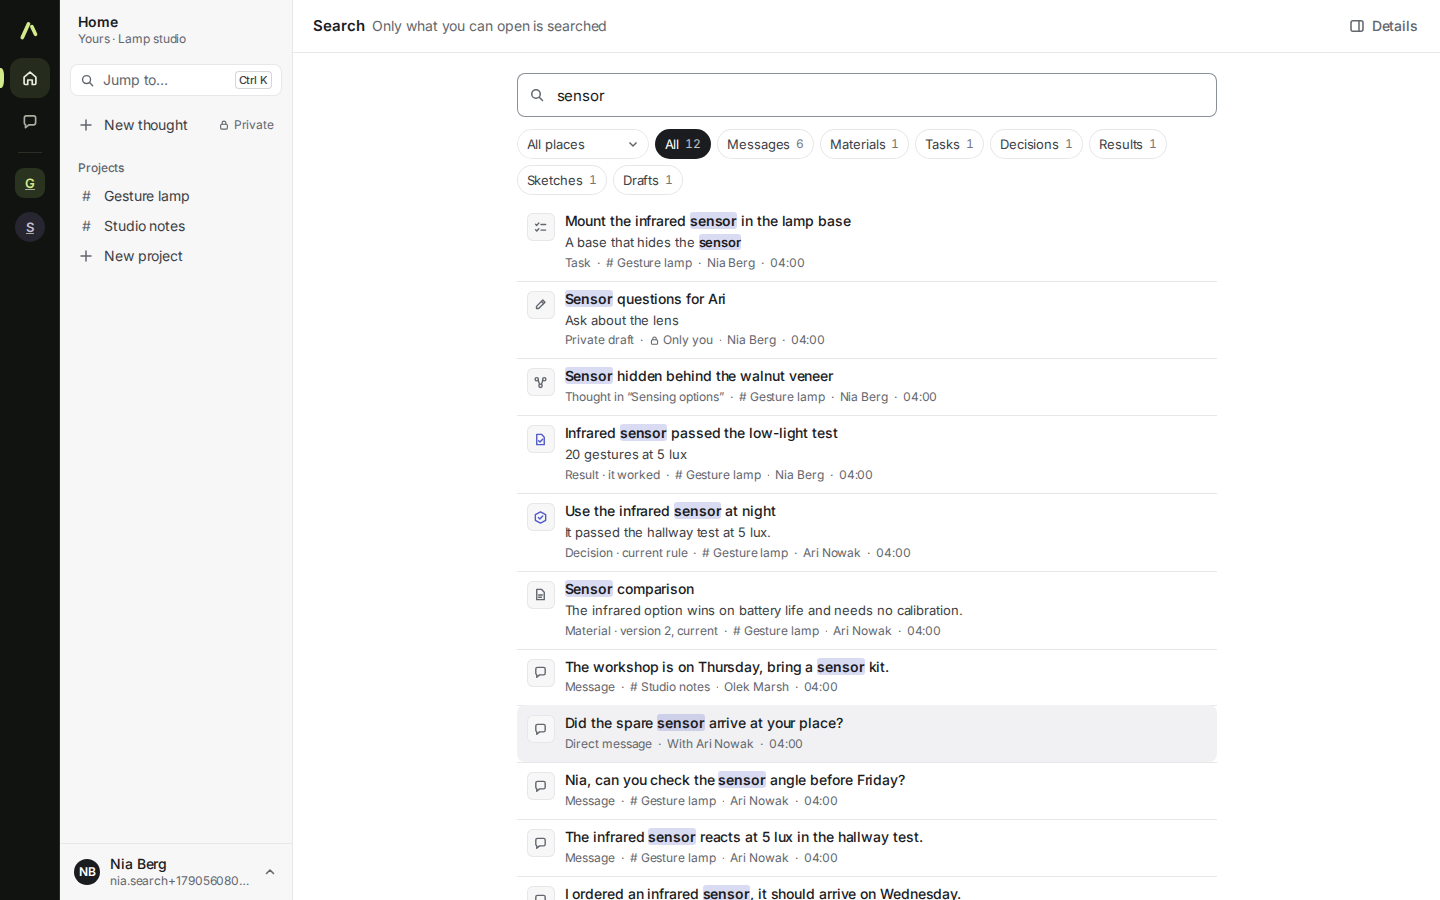
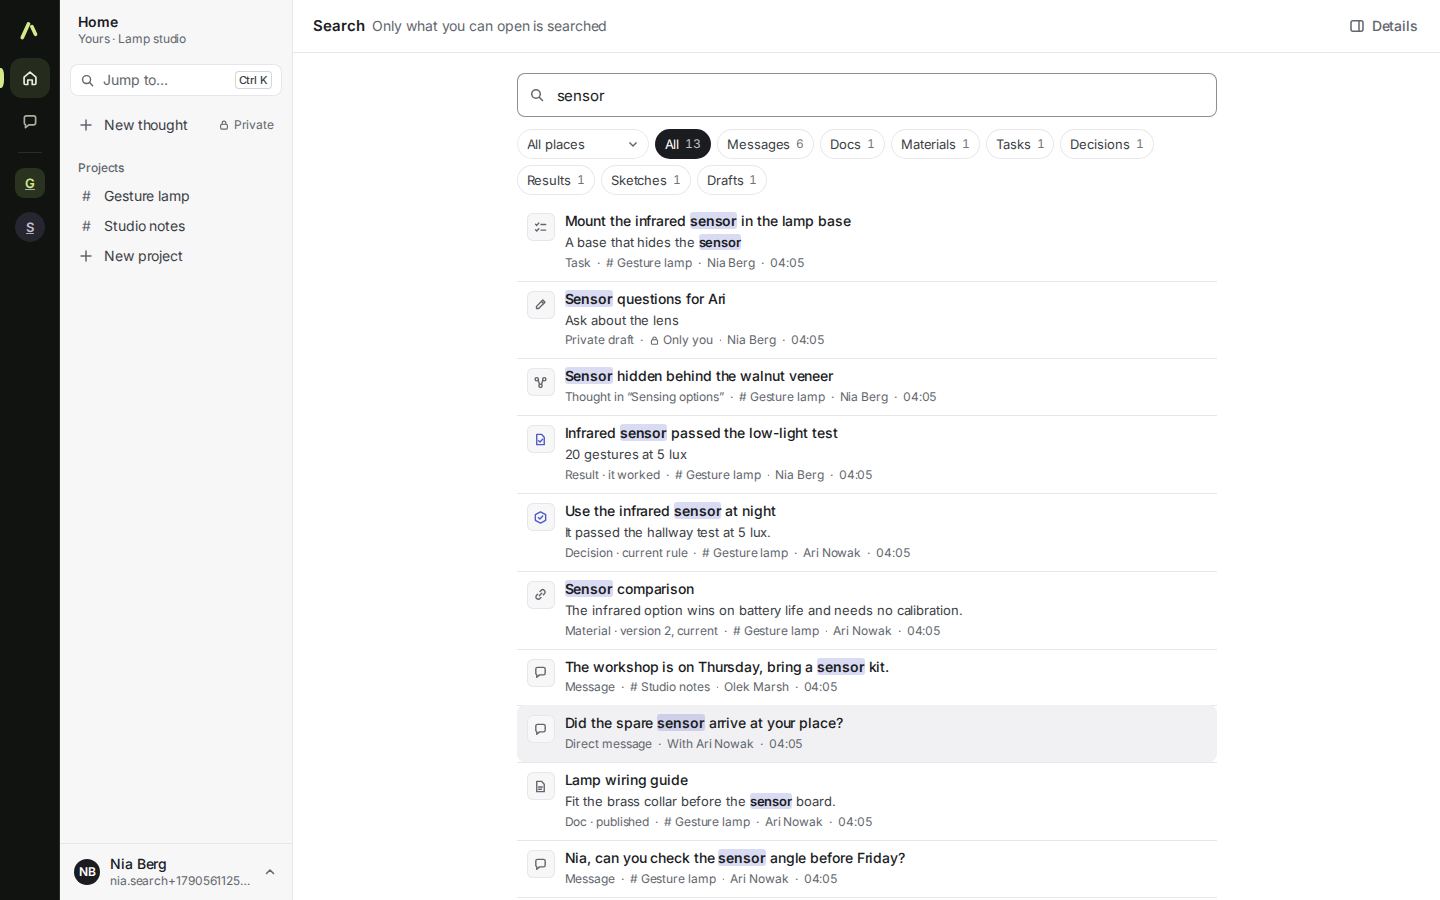
feat: docs as a search source (#114)

diff --git a/packages/contracts/src/search.ts b/packages/contracts/src/search.ts
@@ -1,7 +1,7 @@
 /**
  * Search across Flux (issue #114, foundation 8.12).
  *
- * One query over project and direct messages, materials and every version of them, work, decisions, results,
+ * One query over project and direct messages, docs and materials and every version of them, work, decisions, results,
  * sketches and their thoughts, drafts and people. Every result, snippet, count and the `next`
  * cursor come only from objects the caller may read at the moment of the request: the server
  * applies the access policy inside the SQL before ranking, limiting, counting and highlighting.
@@ -9,11 +9,11 @@
 export const SEARCH_PATH = '/api/v1/search';
 
 /** What a result is. `dm_message` results belong to the `message` filter and `thought` results to `sketch`. */
-export type SearchKind = 'message' | 'dm_message' | 'material' | 'work' | 'decision' | 'result' | 'sketch' | 'thought' | 'draft' | 'person';
+export type SearchKind = 'message' | 'dm_message' | 'material' | 'doc' | 'work' | 'decision' | 'result' | 'sketch' | 'thought' | 'draft' | 'person';
 
 /** Filter values of `type`: one kind, with project and direct messages together and sketches with their thoughts. */
-export type SearchFilterType = 'message' | 'material' | 'work' | 'decision' | 'result' | 'sketch' | 'draft' | 'person';
-export const SEARCH_FILTER_TYPES: readonly SearchFilterType[] = ['message', 'material', 'work', 'decision', 'result', 'sketch', 'draft', 'person'];
+export type SearchFilterType = 'message' | 'doc' | 'material' | 'work' | 'decision' | 'result' | 'sketch' | 'draft' | 'person';
+export const SEARCH_FILTER_TYPES: readonly SearchFilterType[] = ['message', 'doc', 'material', 'work', 'decision', 'result', 'sketch', 'draft', 'person'];
 
 export const SEARCH_LIMITS = { query: 200, pageDefault: 20, pageMax: 50, countCap: 500 } as const;
 
@@ -53,6 +53,8 @@ export type SearchTarget =
   | { type: 'message'; projectId: string; conversationId: string; messageId: string }
   | { type: 'dm_message'; dmId: string; messageId: string }
   | { type: 'material'; projectId: string; materialId: string; version: number }
+  /** A doc (#112) at the version that matched. */
+  | { type: 'doc'; projectId: string; docId: string; version: number }
   | { type: 'work' | 'decision' | 'result'; projectId: string; id: string }
   | { type: 'sketch'; sketchId: string }
   | { type: 'thought'; sketchId: string; thoughtId: string }

diff --git a/tests/app/search.test.ts b/tests/app/search.test.ts
@@ -208,6 +208,29 @@ describe('search: one query across Flux, only what you may read', () => {
     assert.ok(old.items[0]!.snippet?.some((part) => part.match && part.text.toLowerCase() === 'humidity'));
   });
 
+  test('docs are found at the version that matched, as drafts or published, only by project readers', async () => {
+    const created = json<{ id: string; version: number }>(await post(ari, `/api/v1/projects/${lamp.id}/docs`, {
+      title: 'Lamp wiring guide', body: 'Solder the dimmer before the brass fitting.', state: 'draft',
+    }), 201, 'doc');
+    const draftHit = await search(nia, 'dimmer');
+    assert.equal(draftHit.items.length, 1);
+    assert.equal(draftHit.items[0]!.kind, 'doc');
+    assert.equal(draftHit.items[0]!.label, 'Doc · draft');
+    assert.deepEqual(draftHit.items[0]!.target, { type: 'doc', projectId: lamp.id, docId: created.id, version: 1 });
+    json(await patch(ari, `/api/v1/docs/${created.id}`, { body: 'Fit the brass collar first, then the switch.', state: 'published' },
+      { 'if-match': `"${created.version}"` }), 200, 'publish doc');
+    const published = await search(nia, 'collar');
+    assert.equal(published.items[0]!.label, 'Doc · published');
+    assert.deepEqual(published.items[0]!.target, { type: 'doc', projectId: lamp.id, docId: created.id, version: 2 });
+    const old = await search(nia, 'dimmer');
+    assert.equal(old.items[0]!.label, 'Doc · version 1 of 2, draft', 'the old text is found at its own version');
+    const both = await search(nia, 'brass');
+    assert.equal(both.items.filter((item) => item.kind === 'doc').length, 1, 'one result per doc');
+    assert.equal(both.counts.doc, 1);
+    assert.deepEqual((await search(olek, 'brass')).items, [], 'not outside the project');
+    assert.deepEqual(kinds(await search(nia, { q: 'brass', type: 'doc' })), ['doc']);
+  });
+
   test('revoking access removes results on the very next search, and leaving a DM removes its messages', async () => {
     assert.ok((await search(nia, 'infrared')).items.length >= 4);
     await grant(ari, lamp.id, nia, 'denied');

diff --git a/packages/db/src/repositories/search.ts b/packages/db/src/repositories/search.ts
@@ -15,7 +15,7 @@ export type SearchExecutor = Pick<NodePgDatabase<typeof schema>, 'select' | 'exe
  */
 
 /** `search_documents.kind` (the contracts' `SearchKind`; this package does not depend on contracts). */
-export type SearchKindRow = 'message' | 'dm_message' | 'material' | 'work' | 'decision' | 'result' | 'sketch' | 'thought' | 'draft' | 'person';
+export type SearchKindRow = 'message' | 'dm_message' | 'material' | 'doc' | 'work' | 'decision' | 'result' | 'sketch' | 'thought' | 'draft' | 'person';
 type SearchKind = SearchKindRow;
 /** Highlighted text: plain and matched parts. */
 export type SearchTextRow = { text: string; match: boolean }[];
@@ -175,7 +175,7 @@ function pageStatement(audiences: SearchAudienceRows[], plan: SearchPlanRows): S
     LEFT JOIN workspaces w ON w.id = h.workspace_id
     LEFT JOIN auth_users au ON h.author_kind = 'human' AND au.id = h.author_id
     LEFT JOIN agents ag ON ag.id = (CASE WHEN h.author_kind = 'agent' THEN h.author_id::uuid END)
-    LEFT JOIN project_materials pm ON pm.id = (CASE WHEN h.kind = 'material' THEN h.object_id::uuid END)
+    LEFT JOIN project_materials pm ON pm.id = (CASE WHEN h.kind IN ('material', 'doc') THEN h.object_id::uuid END)
     LEFT JOIN sketches sk ON h.kind = 'thought' AND sk.id = h.parent_id
     LEFT JOIN dms d ON h.kind = 'dm_message' AND d.id = h.parent_id
     ORDER BY h.score DESC, h.at DESC, h.id DESC`;

diff --git a/packages/core/src/search/sources.ts b/packages/core/src/search/sources.ts
@@ -30,6 +30,13 @@ function materialLabel(row: SearchRow) {
   return version >= current ? `Material · version ${version}, current` : `Material · version ${version} of ${current}`;
 }
 
+function docLabel(row: SearchRow) {
+  const version = row.version ?? 1;
+  const current = row.currentVersion ?? version;
+  const state = row.status === 'draft' ? 'draft' : 'published';
+  return version >= current ? `Doc · ${state}` : `Doc · version ${version} of ${current}, ${state}`;
+}
+
 const quote = (text: string) => `“${text}”`;
 
 function inProject(row: SearchRow) {
@@ -48,6 +55,10 @@ export const SEARCH_SOURCES: Record<SearchKind, SearchSource> = {
   material: {
     filter: 'material', audience: 'project', textIsTitle: false, label: materialLabel,
     target: (row) => ({ type: 'material', projectId: inProject(row), materialId: row.objectId, version: row.version ?? 1 }),
+  },
+  doc: {
+    filter: 'doc', audience: 'project', textIsTitle: false, label: docLabel,
+    target: (row) => ({ type: 'doc', projectId: inProject(row), docId: row.objectId, version: row.version ?? 1 }),
   },
   work: {
     filter: 'work', audience: 'project', textIsTitle: false, label: (row) => WORK_STATUS[row.status ?? ''] ?? 'Task',

diff --git a/apps/web/src/search/api.ts b/apps/web/src/search/api.ts
@@ -19,6 +19,7 @@ export function targetHref(target: SearchTarget): string {
     case 'message': return `/projects/${target.projectId}/conversations/${target.conversationId}#message-${target.messageId}`;
     case 'dm_message': return `/dm/${target.dmId}#message-${target.messageId}`;
     case 'material': return `/materials/${target.materialId}/versions/${target.version}`;
+    case 'doc': return `/projects/${target.projectId}/docs/${target.docId}/versions/${target.version}`;
     case 'sketch': return `/map/${target.sketchId}`;
     case 'thought': return `/map/${target.sketchId}#thought-${target.thoughtId}`;
     case 'draft': return `/#draft-${target.draftId}`;

diff --git a/packages/core/src/search/service.ts b/packages/core/src/search/service.ts
@@ -95,7 +95,7 @@ function toResult(row: SearchRow): SearchResult {
   const source = SEARCH_SOURCES[row.kind];
   const main = source.textIsTitle && row.snippet ? row.snippet : row.title;
   return {
-    id: `${row.kind}:${row.objectId}${row.version !== null && row.kind === 'material' ? `:${row.version}` : ''}`,
+    id: `${row.kind}:${row.objectId}${row.version !== null && (row.kind === 'material' || row.kind === 'doc') ? `:${row.version}` : ''}`,
     kind: row.kind,
     label: source.label(row),
     title: main.length ? main : [{ text: 'Untitled', match: false }],

diff --git a/apps/web/src/search/ResultRow.tsx b/apps/web/src/search/ResultRow.tsx
@@ -5,7 +5,7 @@ import { Icon, type IconName } from '../ui';
 // matched words marked, and where it lives, who wrote it and when. Shared by Jump to… and the page.
 
 const ICONS: Record<SearchKind, IconName> = {
-  message: 'chat', dm_message: 'chat', material: 'doc', work: 'tasks', decision: 'rule', result: 'result',
+  message: 'chat', dm_message: 'chat', material: 'link', doc: 'doc', work: 'tasks', decision: 'rule', result: 'result',
   sketch: 'map', thought: 'map', draft: 'edit', person: 'people',
 };
 

diff --git a/apps/web/src/search/SearchPage.tsx b/apps/web/src/search/SearchPage.tsx
@@ -11,7 +11,7 @@ import { useSearch } from './useSearch';
 import './search.css';
 
 const FILTER_LABELS: Record<SearchFilterType, string> = {
-  message: 'Messages', material: 'Materials', work: 'Tasks', decision: 'Decisions', result: 'Results',
+  message: 'Messages', doc: 'Docs', material: 'Materials', work: 'Tasks', decision: 'Decisions', result: 'Results',
   sketch: 'Sketches', draft: 'Drafts', person: 'People',
 };
 

diff --git a/tests/ui/test_search.py b/tests/ui/test_search.py
@@ -127,13 +127,14 @@ class SearchJourney(unittest.TestCase):
         self.api(nia, "POST", f"/api/v1/projects/{p}/results", {"title": "Infrared sensor passed the low-light test", "finding": "positive", "evidence": "20 gestures at 5 lux"}, status=201)
         sketch = self.api(nia, "POST", f"/api/v1/workspaces/{ws['id']}/sketches", {"title": "Sensing options", "scope": "project", "projectId": p}, status=201)
         thought = self.api(nia, "POST", f"/api/v1/sketches/{sketch['id']}/thoughts", {"text": "Sensor hidden behind the walnut veneer", "x": 0, "y": 0}, status=201)
+        doc = self.api(ari, "POST", f"/api/v1/projects/{p}/docs", {"title": "Lamp wiring guide", "body": "Fit the brass collar before the sensor board.", "state": "published"}, status=201)
         self.api(nia, "POST", f"/api/v1/workspaces/{ws['id']}/drafts", {"title": "Sensor questions for Ari", "body": "Ask about the lens"}, status=201)
         dm = self.api(ari, "POST", f"/api/v1/workspaces/{ws['id']}/dms", {"participantIds": [PEOPLE["nia"]["id"]]}, status=201)
         self.api(ari, "POST", f"/api/v1/dms/{dm['id']}/messages", {"body": "Did the spare sensor arrive at your place?", "clientMessageId": str(uuid.uuid4())}, status=201)
         olek = self.page("olek")
         open_thread = self.api(olek, "POST", f"/api/v1/projects/{notes['id']}/conversations", {"body": "The workshop is on Thursday, bring a sensor kit.", "clientMessageId": str(uuid.uuid4())}, status=201)
         type(self).ids = {"workspace": ws["id"], "lamp": p, "thread": thread["id"], "material": material["materialId"], "rule": rule["id"],
-                          "sketch": sketch["id"], "thought": thought["thought"]["id"], "dm": dm["id"], "open_thread": open_thread["id"]}
+                          "sketch": sketch["id"], "thought": thought["thought"]["id"], "dm": dm["id"], "open_thread": open_thread["id"], "doc": doc["id"]}
 
     # ---------------------------------------------------------------- Jump to…
 
@@ -200,6 +201,12 @@ class SearchJourney(unittest.TestCase):
         field.press("Enter")
         expect(page).to_have_url(re.compile(rf"/dm/{self.ids['dm']}#message-"))
         expect(page.locator(".dm-msg.is-arrived")).to_contain_text("spare sensor")
+        dialog, field = self.jump(page, "brass collar")
+        first = dialog.get_by_role("option").first
+        expect(first).to_contain_text("Doc · published")
+        field.press("Enter")
+        expect(page).to_have_url(re.compile(rf"/projects/{self.ids['lamp']}/docs/{self.ids['doc']}(/versions/1)?$"))
+        expect(page.get_by_role("heading", name="Lamp wiring guide").first).to_be_visible()
         dialog, field = self.jump(page, "zeppelin")
         expect(dialog).to_contain_text("Nothing you can open matches “zeppelin”.")
         shot(page, "search-jump-desktop-1440-empty")
@@ -220,6 +227,7 @@ class SearchJourney(unittest.TestCase):
         chips = page.get_by_role("group", name="Kind of result")
         expect(chips.get_by_role("button", name=re.compile(r"^All"))).to_have_attribute("aria-pressed", "true")
         expect(chips.get_by_role("button", name=re.compile(r"^Messages"))).to_contain_text("6")
+        expect(chips.get_by_role("button", name=re.compile(r"^Docs"))).to_contain_text("1")
         shot(page, "search-page-desktop-1440")
         tasks = chips.get_by_role("button", name=re.compile(r"^Tasks"))
         tasks.click()

diff --git a/docs/development/search.md b/docs/development/search.md
@@ -1,7 +1,7 @@
 # Search across Flux (issue #114)
 
 Foundation 8.12: a person knows something exists but not where or under which name. One search
-covers project messages, direct messages, materials and every version of them, work items,
+covers project messages, direct messages, docs and materials and every version of them, work items,
 decisions, results, sketches and their thoughts, drafts and people. It runs in PostgreSQL only
 (`tsvector`, GIN, `websearch_to_tsquery`, `ts_headline`, `pg_trgm`), in line with O-002: there is
 no separate search server. The #16 rule applies throughout: **access filtering happens before
@@ -15,7 +15,7 @@ searchable object:
 
 | Column | Meaning |
 | --- | --- |
-| `kind` | `message`, `dm_message`, `material`, `work`, `decision`, `result`, `sketch`, `thought`, `draft` or `person`. |
+| `kind` | `message`, `dm_message`, `material`, `doc`, `work`, `decision`, `result`, `sketch`, `thought`, `draft` or `person`. |
 | `audience_key` | The object that carries the row's permission: `project:<id>`, `dm:<id>`, `sketch:<id>`, `draft:<id>` or `members:<workspace>`. |
 | `project_id`, `parent_id`, `object_id`, `version` | The place and the exact target: the conversation of a message, the DM of a DM message, the sketch of a thought, and the material version. |
 | `title`, `body`, `status`, `author_kind`/`author_id`, `at` | Content, the status that names it ("Task · blocked"), who wrote it and when. |
@@ -32,9 +32,14 @@ searchable object:
   `audience_key`, so a revoked grant, a left DM, a deny grant or a membership removal applies on
   the next search without touching the index. A sketch's scope and a draft's visibility are
   read from their own rows by the policy.
-- **Old citations still resolve.** Every material version has its own row. A search that
-  matches only an older version finds that version ("Material · version 1 of 2") and opens it;
-  when several versions match, the newest matching one is shown and the material counts once.
+- **Old citations still resolve.** Every material and doc version has its own row. A search that
+  matches only an older version finds that version ("Material · version 1 of 2", "Doc · version 1
+  of 2, draft") and opens it; when several versions match, the newest matching one is shown and
+  the object counts once.
+- **Docs (#112)** are project materials of kind `doc`, so the material version trigger indexes them
+  with kind `doc` and the version's state. Their audience is the project: draft is a state, not a
+  second audience, as in [docs-wiki.md](docs-wiki.md). A result says "Doc · draft" or "Doc ·
+  published" and opens the doc reader at the matched version.
 - **Language.** The `simple` configuration lowercases without stemming, so every language is
   treated the same way. The last word also matches as a prefix while typing (`sens` finds
   "sensor"), and titles and names also match by trigram similarity, which tolerates small typos.
@@ -75,7 +80,7 @@ needs a live session and answers `Cache-Control: no-store`.
 
 - `q`: 1–200 characters (`400 QUERY_REQUIRED` / `QUERY_TOO_LONG`). A query without any letter or
   digit returns an empty answer. Queries are always parameters; operators, quotes and SQL are data.
-- `type`: `message` (project and direct messages), `material`, `work`, `decision`, `result`,
+- `type`: `message` (project and direct messages), `doc`, `material`, `work`, `decision`, `result`,
   `sketch` (sketches and thoughts), `draft` or `person`.
 - `place`: `project:<id>`, `dm:<id>` or `private` (your private drafts and sketches). A place
   the reader cannot see gives the same empty answer as a place without matches.
@@ -102,9 +107,8 @@ A source is registered in three small places plus its trigger:
 3. if it brings a new audience type, one entry in `AUDIENCE_KEYS` (`@flux/db` search rows) and one
    in `POLICY_AUDIENCES` (server adapter) that returns the policy's `visibleFilter` condition.
 
-Direct messages were added this way (`dm_message`, audience `dm`). **Docs (#112)** follow the same
-steps: a `doc` kind and its trigger, and either the `project` audience or a new `doc` audience
-backed by the docs rule in `policy.ts`. They are not indexed yet.
+Direct messages were added this way (`dm_message`, audience `dm`), and docs (`doc`, reusing the
+`project` audience and the material version trigger).
 
 ## Web
 
@@ -119,7 +123,7 @@ backed by the docs rule in `policy.ts`. They are not indexed yet.
   links (↓ from the field moves into them, ↑ from the first returns), and "Show more results" with
   the cursor.
 - **Opening a result** goes to the exact object: a message or DM message opens on that whole
-  message (`#message-<id>`, highlighted and focused), a material at the matched version, a thought
+  message (`#message-<id>`, highlighted and focused), a material or doc at the matched version, a thought
   selected in its sketch (`#thought-<id>`), a private draft on Home (`#draft-<id>`), a person to a
   direct message with them, and work, decisions and results in Details on their project. A DM
   message outside the loaded window opens the DM at its latest messages; drafts shared with a
@@ -135,7 +139,8 @@ backed by the docs rule in `policy.ts`. They are not indexed yet.
   and target; the restricted project and a DM leaking nothing to an outsider, including when he
   filters by their ids; private drafts and sketches reaching only their author, and a group DM
   hidden from the workspace owner; people for members but not guests; type filters and counts;
-  an edit searchable at once and an old material version; revocation by a deny grant and by
+  an edit searchable at once and an old material version; docs as drafts and published, at the
+  version that matched and once per doc; revocation by a deny grant and by
   leaving a DM on the very next search; ranking and typo tolerance; injection-safe queries; and
   sealed keyset pagination (another reader, another query or filter, or a forged cursor get
   `400`). **Saturation:** 300 hidden project messages, 100 thoughts in another person's private
